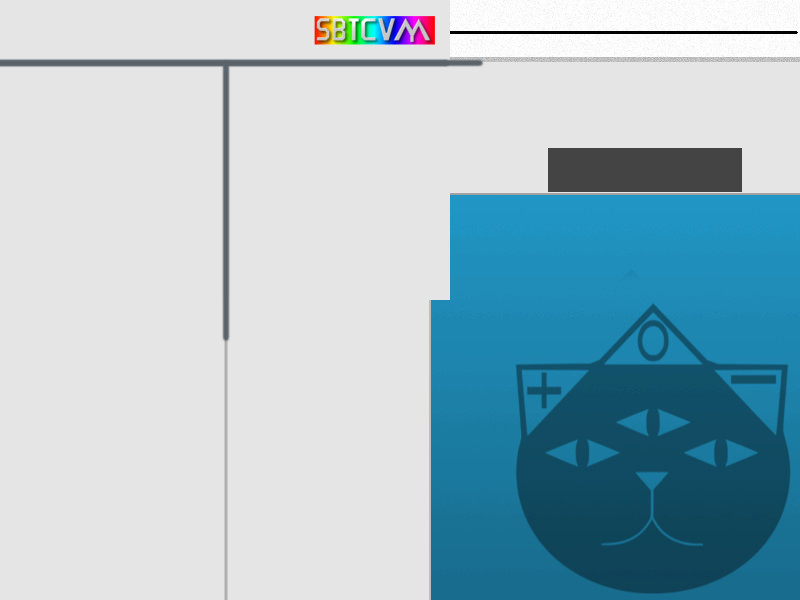
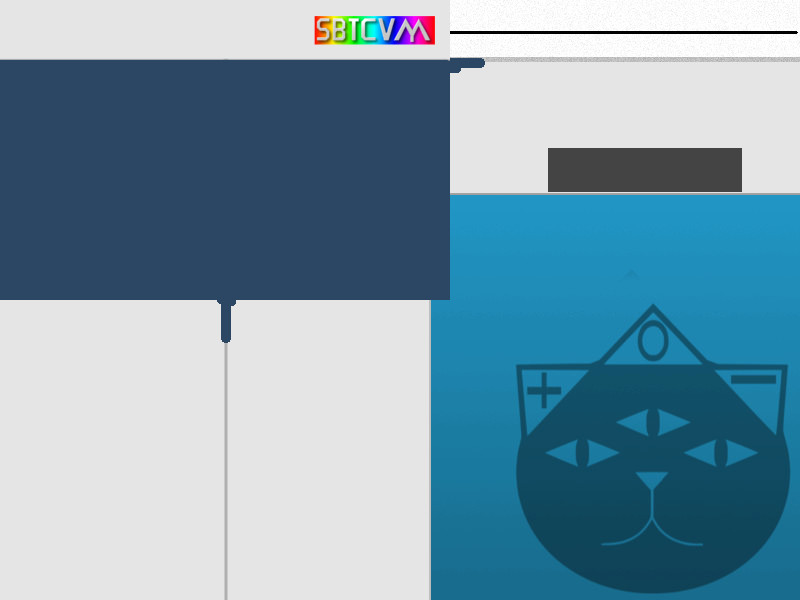
touch up settings utility UI

Changed region(s): [[0.0, 0.09, 0.625, 0.57]]

diff --git a/settings.py b/settings.py
@@ -96,6 +96,8 @@ for f in mixlist:
 
 qflg=0
 scupdate=1
+
+stcolor=(255, 255, 255)
 while qflg==0:
 	time.sleep(0.05)
 	if scupdate==1:
@@ -123,43 +125,43 @@ while qflg==0:
 			menulabel=catfont.render("Other", True, (0, 0, 0))
 		screensurf.blit(menulabel, (209, 5))
 		
-		menulabel=simplefontB.render("Status Readouts.", True, (0, 0, 0))
+		menulabel=simplefontB.render("Status Readouts.", True, stcolor)
 		screensurf.blit(menulabel, (0, 80))
 		if disablereadouts==0:
 			disre=screensurf.blit(swon, (0, 100))
 		else:
 			disre=screensurf.blit(swoff, (0, 100))
-		menulabel=simplefontB.render("TTY (virtual text display)", True, (0, 0, 0))
+		menulabel=simplefontB.render("TTY (virtual text display)", True, stcolor)
 		screensurf.blit(menulabel, (250, 80))
 		if ttystyle==0:
 			ttyx=screensurf.blit(swon, (250, 100))
 		else:
 			ttyx=screensurf.blit(swoff, (250, 100))
-		menulabel=simplefontB.render("Step By Step CPU debug mode.", True, (0, 0, 0))
+		menulabel=simplefontB.render("Step By Step CPU debug mode.", True, stcolor)
 		screensurf.blit(menulabel, (0, 130))
 		if stepbystep==1:
 			stepx=screensurf.blit(swon, (0, 150))
 		else:
 			stepx=screensurf.blit(swoff, (0, 150))
-		menulabel=simplefontB.render("Log execution process.", True, (0, 0, 0))
+		menulabel=simplefontB.render("Log execution process.", True, stcolor)
 		screensurf.blit(menulabel, (250, 130))
 		if vmexeclogflg==1:
 			vmex=screensurf.blit(swon, (250, 150))
 		else:
 			vmex=screensurf.blit(swoff, (250, 150))
-		menulabel=simplefontB.render("Dump IObus on exit.", True, (0, 0, 0))
+		menulabel=simplefontB.render("Dump IObus on exit.", True, stcolor)
 		screensurf.blit(menulabel, (0, 180))
 		if logIOexit==1:
 			ioex=screensurf.blit(swon, (0, 200))
 		else:
 			ioex=screensurf.blit(swoff, (0, 200))
-		menulabel=simplefontB.render("Dump memory bus on exit.", True, (0, 0, 0))
+		menulabel=simplefontB.render("Dump memory bus on exit.", True, stcolor)
 		screensurf.blit(menulabel, (250, 180))
 		if logromexit==1:
 			romex=screensurf.blit(swon, (250, 200))
 		else:
 			romex=screensurf.blit(swoff, (250, 200))
-		menulabel=simplefontB.render("Log memory bus operations", True, (0, 0, 0))
+		menulabel=simplefontB.render("Log memory bus operations", True, stcolor)
 		screensurf.blit(menulabel, (0, 230))
 		if tromlogging==1:
 			tromx=screensurf.blit(swon, (0, 250))
